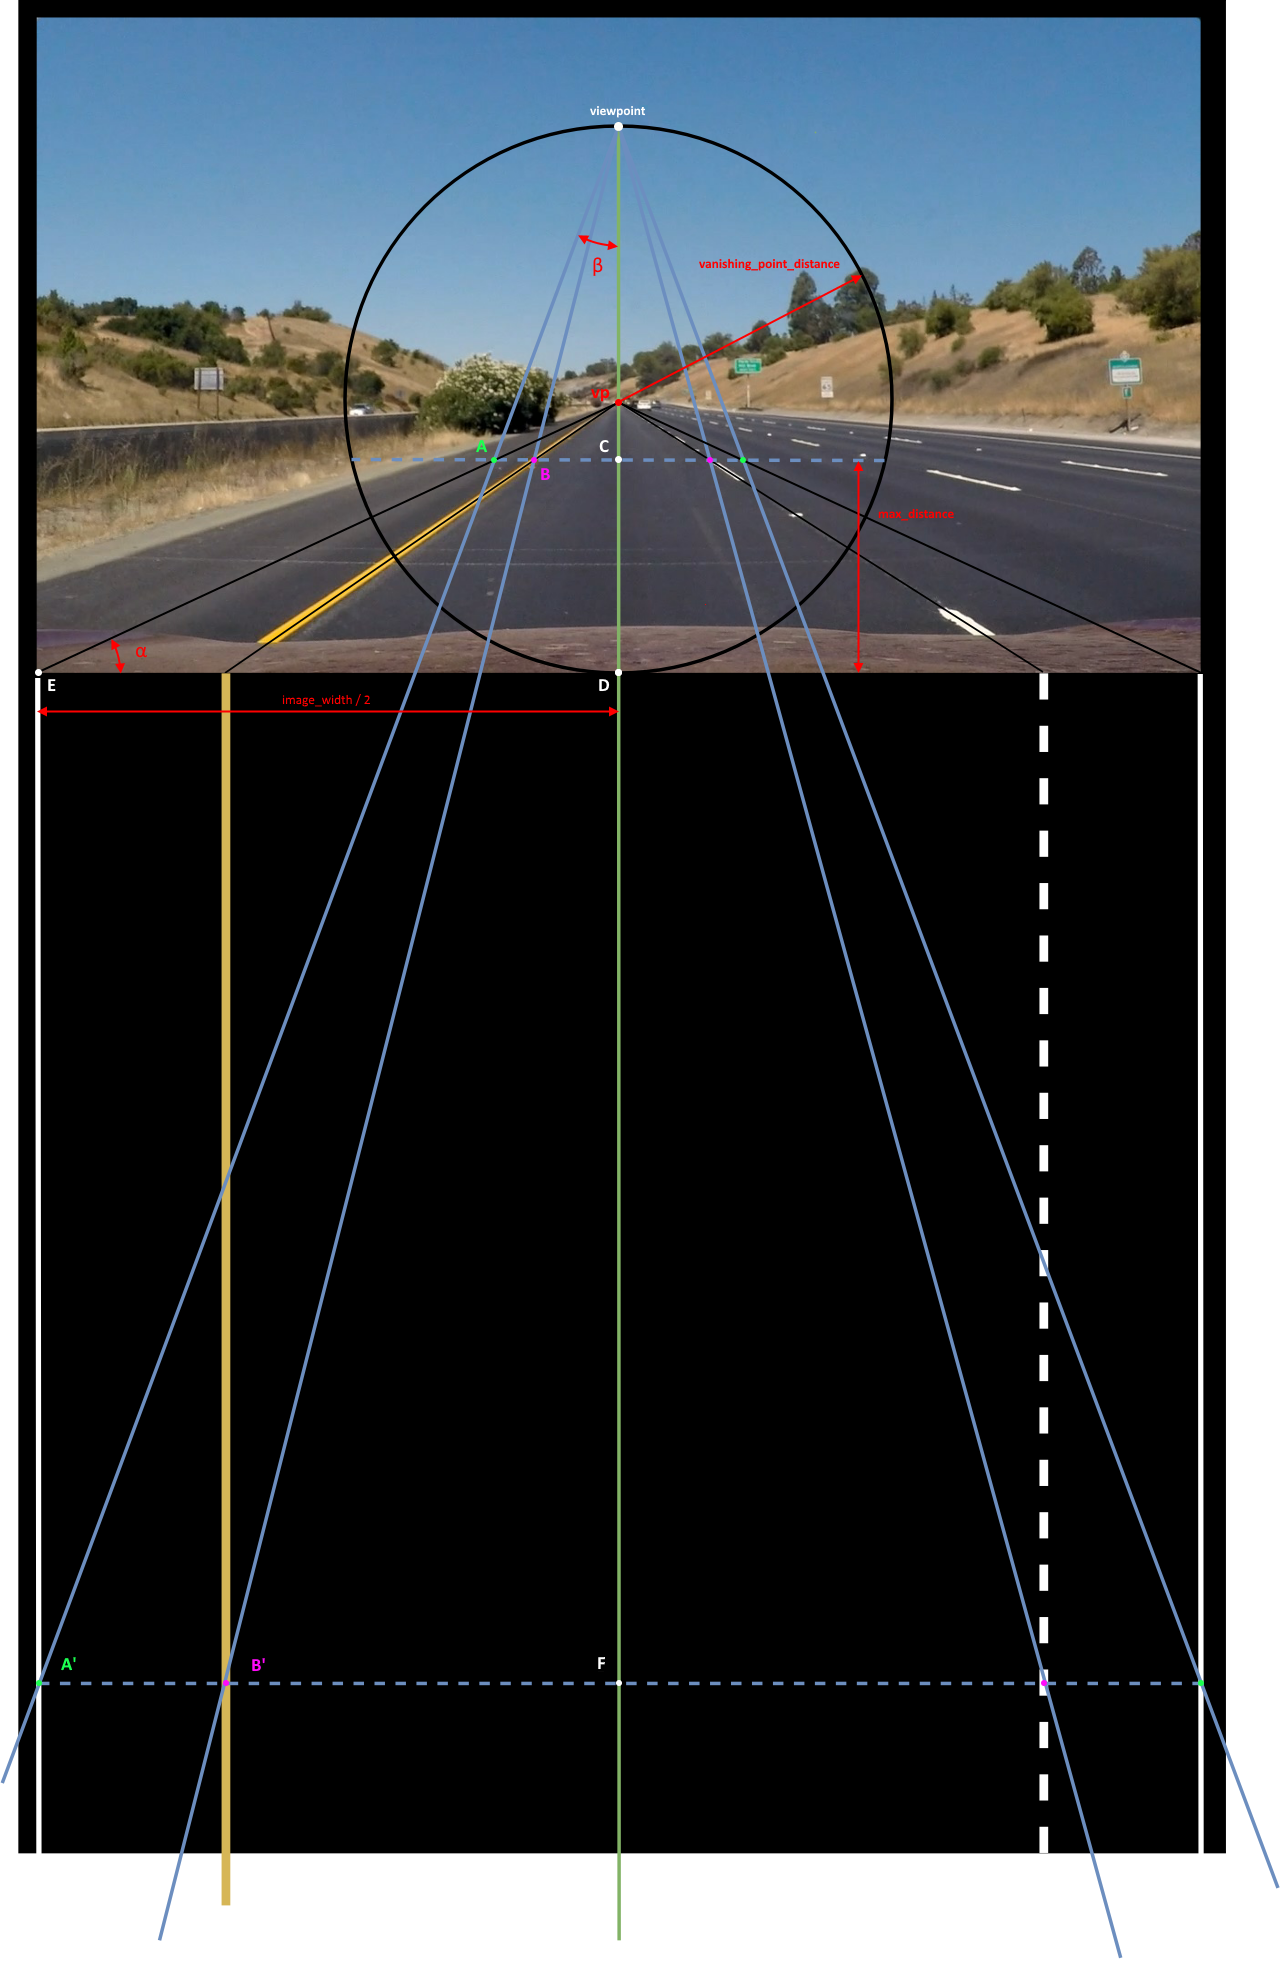
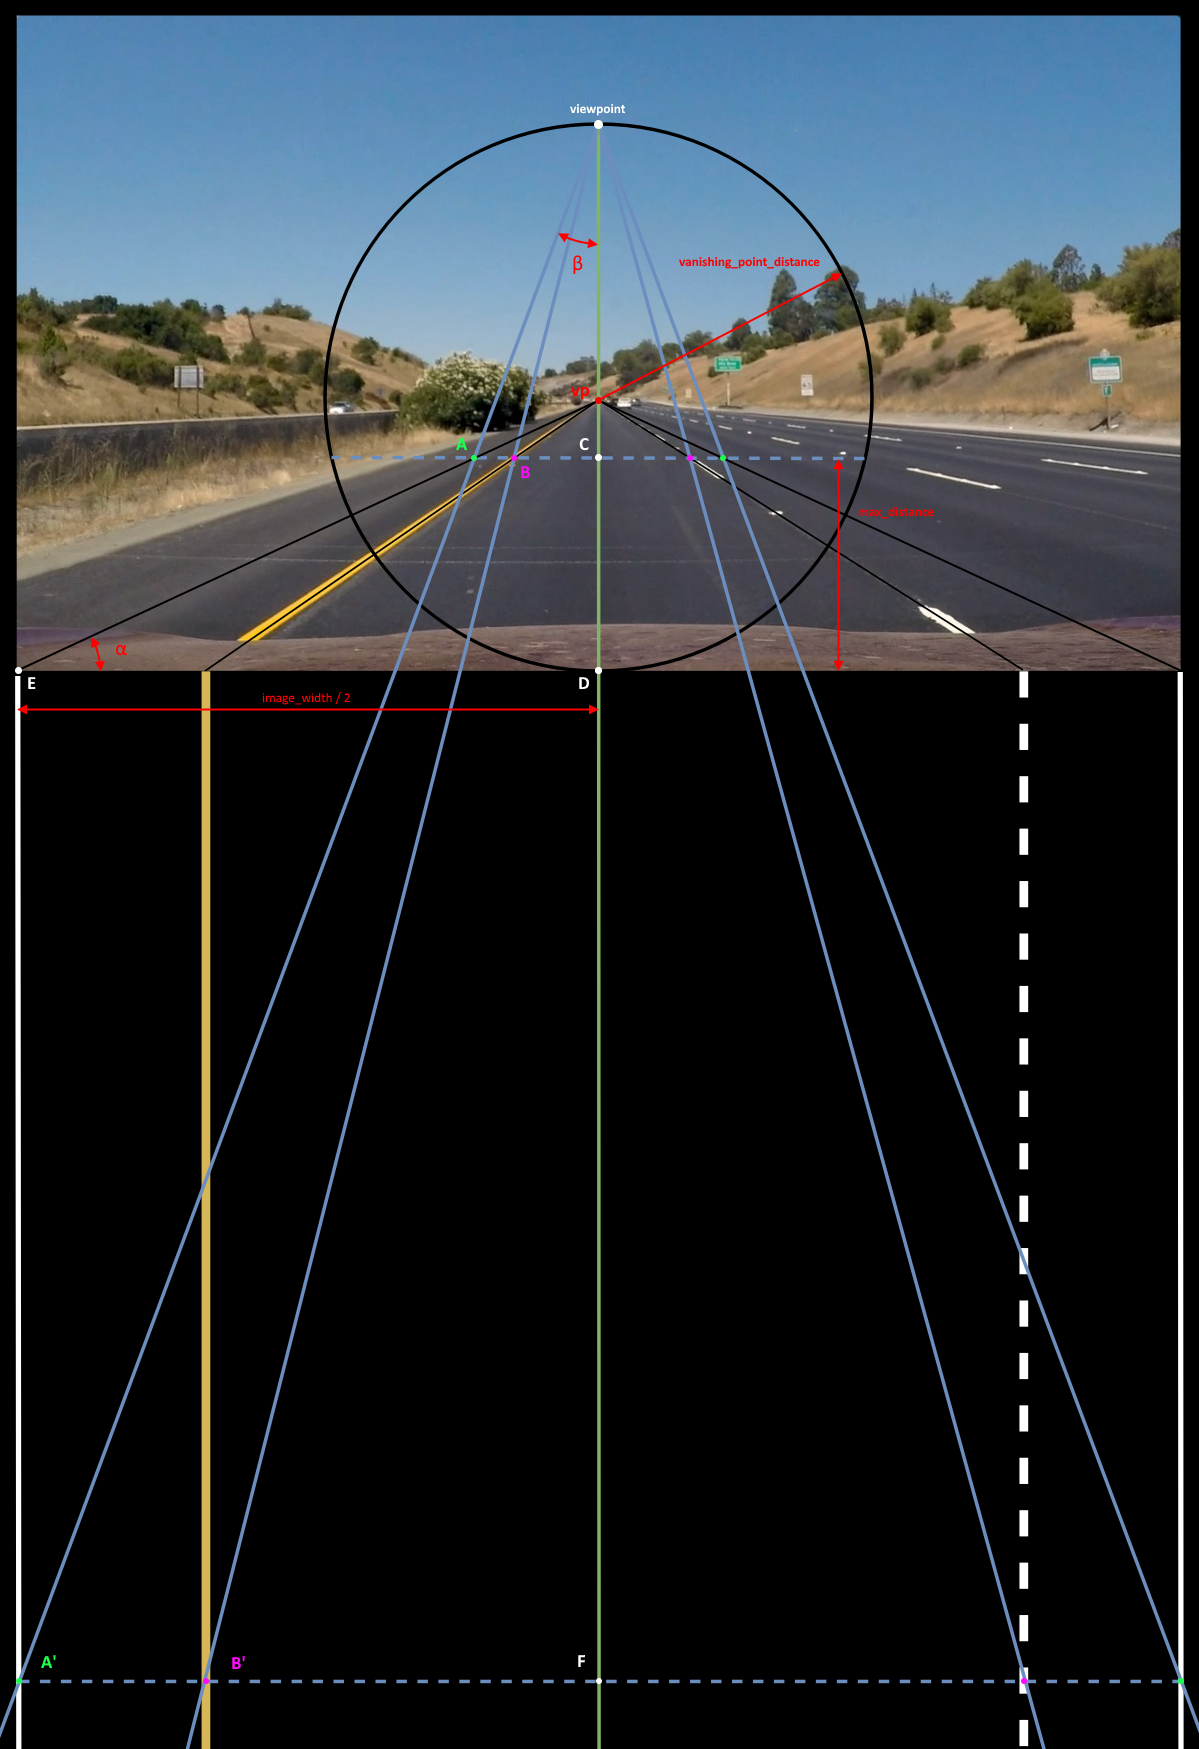
readme update, rename refactoring

diff --git a/code/image_operations/perspective_transformation.py b/code/image_operations/perspective_transformation.py
@@ -20,13 +20,23 @@ class PerspectiveTransformationOperation:
 
         return M_forward, M_back
 
-    def execute(self, image, to_bird_view=True):
-        if to_bird_view:
+    def execute(self, image, transform_to):
+        """
+        :param image: source image
+        :param transform_to: acceptable value is 'top_down_view' or 'front_view'
+        :return: new image with applied perspective transformation
+        """
+        assert transform_to == "top_down_view" or transform_to == "front_view", \
+            "invalid transform_direction"
+
+        if transform_to == "top_down_view":
             M = self.M_forward
             size = self.transformation_parameters.destination_image_size
-        else:
+        elif transform_to == "front_view":
             M = self.M_back
             size = self.transformation_parameters.source_image_size
+        else:
+            raise Exception("acceptable value for transform_direction is 'top_down_view' or 'front_view'")
 
         return cv2.warpPerspective(image, M, size, flags=cv2.INTER_LINEAR)
 

diff --git a/code/image_processor.py b/code/image_processor.py
@@ -18,7 +18,7 @@ class ImageProcessor:
         undistorted_image = self.camera.undistort(bgr_frame)
 
         bw_image_filtered = self.threshold.execute(undistorted_image)
-        bw_bird_view = self.perspective_transform.execute(bw_image_filtered, to_bird_view=True)
+        bw_bird_view = self.perspective_transform.execute(bw_image_filtered, transform_to="top_down_view")
 
         self.lane.update(bw_bird_view)
 
@@ -32,7 +32,7 @@ class ImageProcessor:
             result_image = undistorted_image
         else:
             lane_mask_bird_view = self.lane_mask_factory.create(self.lane, validation_result)
-            lane_mask = self.perspective_transform.execute(lane_mask_bird_view, to_bird_view=False)
+            lane_mask = self.perspective_transform.execute(lane_mask_bird_view, transform_to="front_view")
 
             result_image = cv2.addWeighted(lane_mask, 0.9, undistorted_image, 1, 0)
 

diff --git a/code/tests/perspective_transform.py b/code/tests/perspective_transform.py
@@ -18,14 +18,14 @@ perspective_transform = PerspectiveTransformationOperation(transform_parameters)
 
 bgr_frame = cv2.imread("001_undistorted_image.png")
 
-bird_view = perspective_transform.execute(bgr_frame, to_bird_view=True)
+top_down_view = perspective_transform.execute(bgr_frame, transform_to="top_down_view")
 
 p = transform_parameters.source_image_points.astype(int)
 p = p.reshape((-1,1,2))
 cv2.polylines(bgr_frame, [p] ,True,(0,0,255), 3)
 
 cv2.imwrite("front_view_with_lines.png", bgr_frame)
-cv2.imwrite("top_view.png", bird_view)
+cv2.imwrite("top_view.png", top_down_view)
 
 
 

diff --git a/README.md b/README.md
@@ -2,7 +2,7 @@
 
 The project is a software pipeline that does road lane boundaries identification on images or on video. The project uses two assumptions:
 - camera is mounted at the center of a car
-- camera watching direction is the continuation of car central line
+- camera optical axis is on car's center line
 - lane lines are parallel
 - lane lines could be white or yellow
 
@@ -18,6 +18,7 @@ The project is a software pipeline that does road lane boundaries identification
 [gif_pipeline_visualisation]: ./images/pipeline.gif "Pipeline visualisation"
 [gif_road_image_undistortion]: ./images/road_image_undistortion.gif "Road image undistortion"
 [img_visual_ray_method]: ./images/visual_ray_method.png "Visual ray method visualization"
+[img_source_points]: ./images/source_points.jpg "Source points"
 
 Here is required steps with some description:
 
@@ -48,7 +49,7 @@ camera.calibrate()
 initial_vanishing_point_distance = 310
 ```
 
-Lane vanishing point distance is a distance from bottom of an image to lane perspective center in pixels. 
+Lane vanishing point distance is a distance from bottom of an image to straight lane perspective center on flat road in pixels. 
 It don't have to be precise value - program will adjust it during video frames processing.
 
 4. Set [meters per pixel coefficient](https://github.com/wakeful-sun/lane-finder/blob/105d35d85a5edc6c61776560e8a3858a6aa0f6e2/code/main.py#L26) that corresponds to bottom of an image for proper scailing.
@@ -65,7 +66,7 @@ x_meters_per_pixel = 3.7 / 700
 Optical distortion is a camera lens error that deforms and bends physically straight lines and makes them appear curvy on image. 
 Camera I used also produces distorted images. Camera calibration produces distortion coefficients, that can be applied to any camera image for distortion minimisation. My camera calibration is built on top of [OpenCV](https://docs.opencv.org/3.3.1/dc/dbb/tutorial_py_calibration.html) library and consits of:
 
-- calibration data collection. For given (nx, ny) pattern I retrieve actual coordinates from each real calibration chessboard image using `cv2.findChessboardCorners` function
+- collecting calibration data. For given (nx, ny) pattern I retrieve actual coordinates from each real calibration chessboard image using `cv2.findChessboardCorners` function
 ```
 camera.load_calibration_images(nx=9, ny=6, path_pattern="../input/camera_calibration/calibration*.jpg")
 ```
@@ -102,7 +103,7 @@ The pipeline consists of next stages:
 - lane validation
 - lane mask creation
 - lane mask perspective transformation back from top-down view
-- original frame image and transformed lane mask concatenation
+- undistorted image and transformed lane mask concatenation
 - frame text information output
 
 <h6>Frame undistortion</h6>
@@ -114,31 +115,72 @@ undistorted_image = self.camera.undistort(bgr_frame)
 ![alt text][gif_road_image_undistortion]
 
 <h6>Color threshold filtering</h6>
-Using an assumption that lane lines could be white or yellow, I created color filter for highlighting yellow and white objects on images. The filter converts image to HSV format and then applies actual color boundaries filter. The result is black & wight image.
+
+```
+bw_image_filtered = self.threshold.execute(undistorted_image)
+```
+Using an assumption that lane lines could be white or yellow, I created color filter for highlighting yellow and white objects on images. The filter converts image to HSV format and then applies actual color boundaries. The result is black & wight image.
 
 |<img src="./images/001_undistorted_image.png" alt="Undistorted road image" width="400px">|<img src="./images/002_bw_image_filtered.png" alt="Color threshold" width="400px">|
 |:---:|:---:|
 | undistorted image | result of color threshold filtering |
 
 <h6>Perspective transformation to top-down view</h6>
+
+```
+bw_bird_view = self.perspective_transform.execute(bw_image_filtered, transform_to="top_down_view")
+```
 In order to be able to get lane physical parameters (like curvature, distances, angle between car central line and road lane central line) we need to apply a perspective transform, so that it looks like we are viewing the road from the top. 
 
-|<img src="./images/front_view_with_boundaries.png" alt="Color threshold" width="400px">|<img src="./images/top_view.png" alt="Bird view" width="400px">|
-|:---:|:---:|
-| **front view** | **top-down view** |
+Perspective transformation requires source and destination points. How to choose them? 
+I've started from an assumption that lane lines are parallel on real road. 
+So correct transformation to top-down view should have parallel lane lines. 
+Then using image of **straight lane** below I found lane vanishing point **VP** and simply measured distance to it from the bottom of the image (**A_VP**). 
+Initial [vanishing point](https://github.com/wakeful-sun/lane-finder/blob/105d35d85a5edc6c61776560e8a3858a6aa0f6e2/code/main.py#L25) is a configurable parameter that have to be set for certain camera position. 
+Another configurable parameter is [**AE** distance](https://github.com/wakeful-sun/lane-finder/blob/20d6176f70656511e2f1241fe01e686b929ff340/code/main.py#L28).
 
-At first we need to figure out how to properly chouse source area boundaries and destination image size. 
-Top-down view image has same scaling coefficient along all axes. 
-Red lines on **front view** above define source area that transformed into **top-down view** image.
-The algorithm program uses for producing all required parameters build with help of refinement known as [**visual ray method**](https://www.handprint.com/HP/WCL/perspect2.html). 
+|![alt text][img_source_points]|
+|:---:|
+|**straight lane on flat road**|
+
+Knowing **A_VP**, **BC** (which is equal **AE**) and **AB** (`image_width/2`) distances and some basic trigonometry we can found [**CD**](https://github.com/wakeful-sun/lane-finder/blob/20d6176f70656511e2f1241fe01e686b929ff340/code/image_operations/transformation_parameters.py#L70) distance. 
+
+```
+CD = BC * AB / A_VP
+```
+
+And finally it gives us [source points](https://github.com/wakeful-sun/lane-finder/blob/20d6176f70656511e2f1241fe01e686b929ff340/code/image_operations/transformation_parameters.py#L40-L49)
+
+Now I decided not to pick up static destination points for perspective transformation, because it will produce deformed image. Equal scaling along axes will give me opportunity of visual validation of top-down view. 
+That also should simplify measurement of lane curvature, distances and car position angles. 
+
+The algorithm program uses for producing size of equally scaled along (x, y) axis top-down view image is built with help of refinement known as [**visual ray method**](https://www.handprint.com/HP/WCL/perspect2.html). 
 
 |![alt text][img_visual_ray_method]|
 |:---:|
 |**visual ray method applied to straight lane**|
 
+The resulting top-down view image size:
+- width is the same with as the one of source image
+- height [**DF**](https://github.com/wakeful-sun/lane-finder/blob/20d6176f70656511e2f1241fe01e686b929ff340/code/image_operations/transformation_parameters.py#L76-L78) can be found usin known parameters and trigonometric equation:
+```
+(2 * D_VP + DF) / A'F = (2 * VP - CD) / AC
+```
+so
+```
+DF = A'F * (2 * VP - CD) / AC - 2 * D_VP
+```
 
-|<img src="./images/002_bw_image_filtered.png" alt="Color threshold" width="400px">|<img src="./images/003_bw_bird_view.png" alt="Bird view" width="400px">|
+And here is how undistorted image to top-down view image perspective transformation result is look like:
+
+|<img src="./images/002_bw_image_filtered.png" alt="Front view" width="400px">|<img src="./images/003_bw_bird_view.png" alt="Top-down view" width="400px">|
 |:---:|:---:|
-| undistorted image | result of color threshold filtering |
+| undistorted image | result of perspective transformation |
+
+<h6>Lane lines detection</h6>
+
+```
+self.lane.update(bw_bird_view)
+```
 
 Coming soon...
